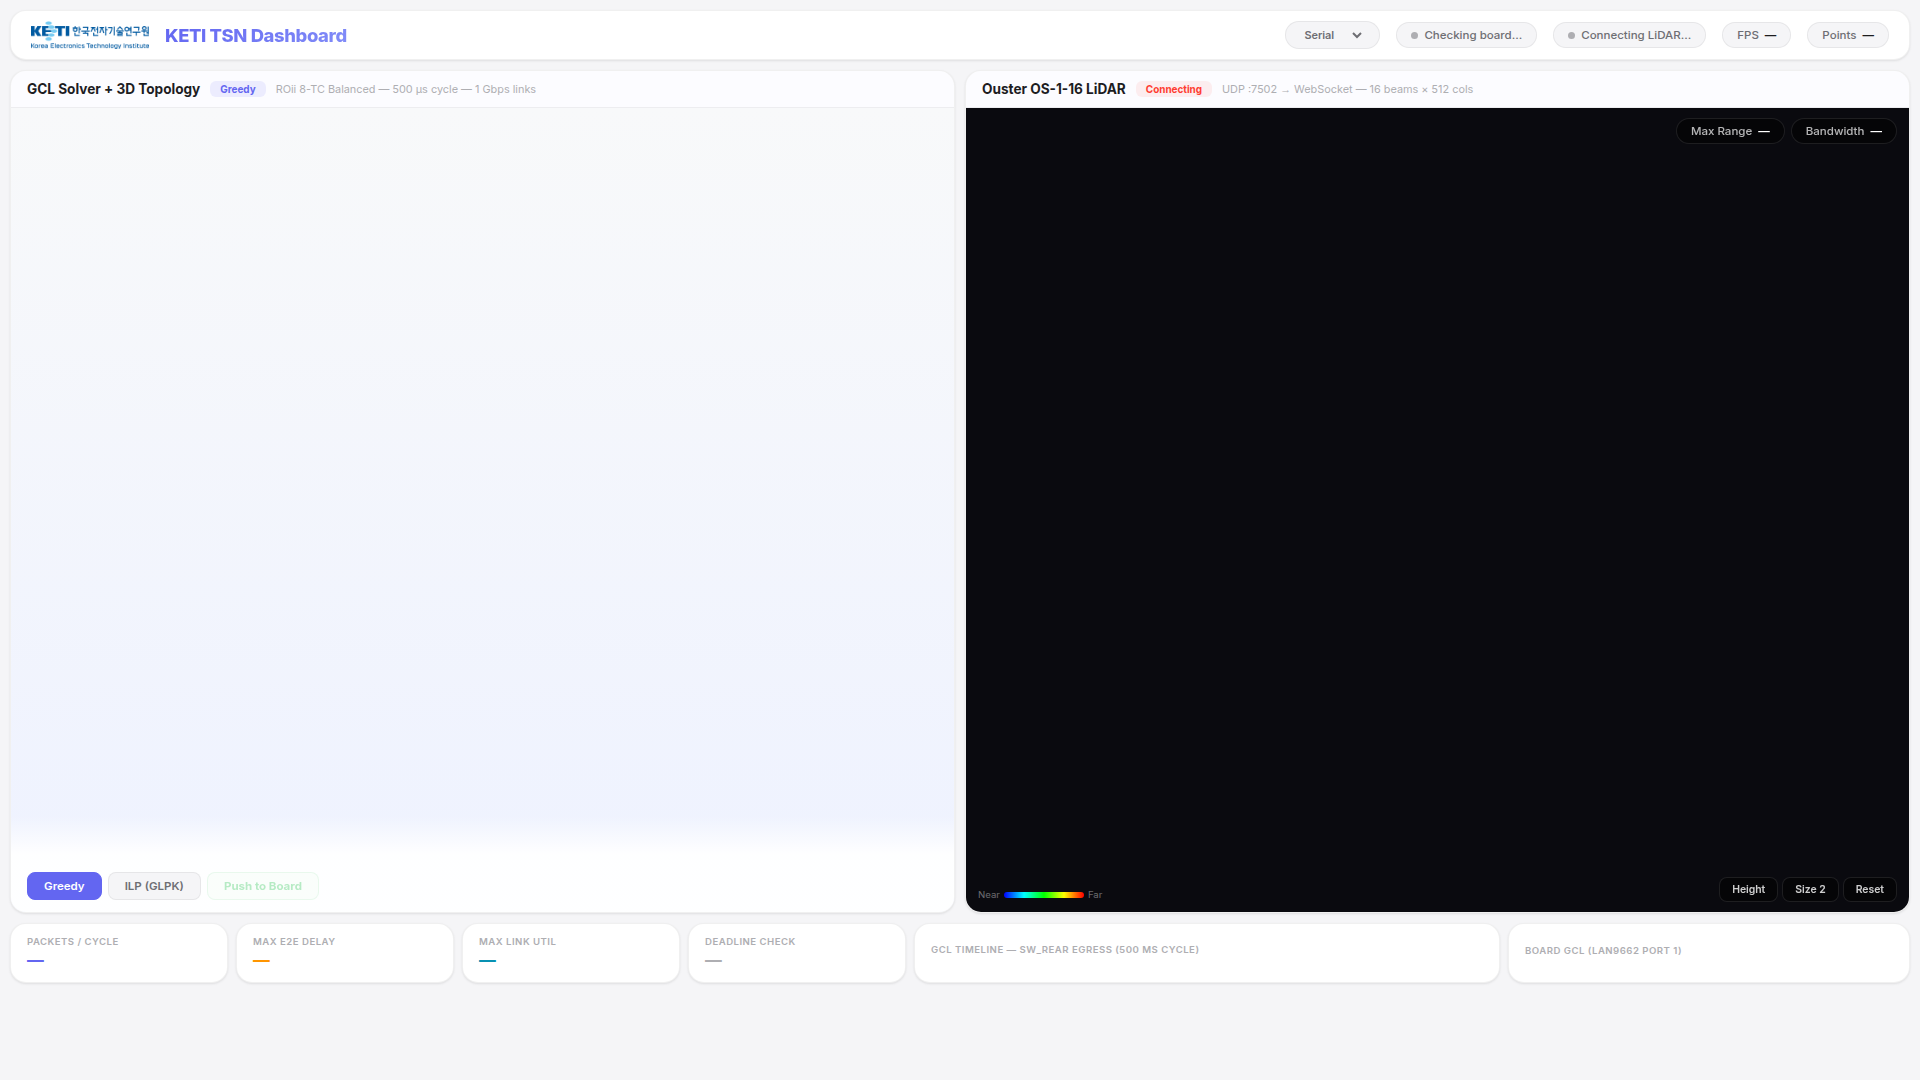
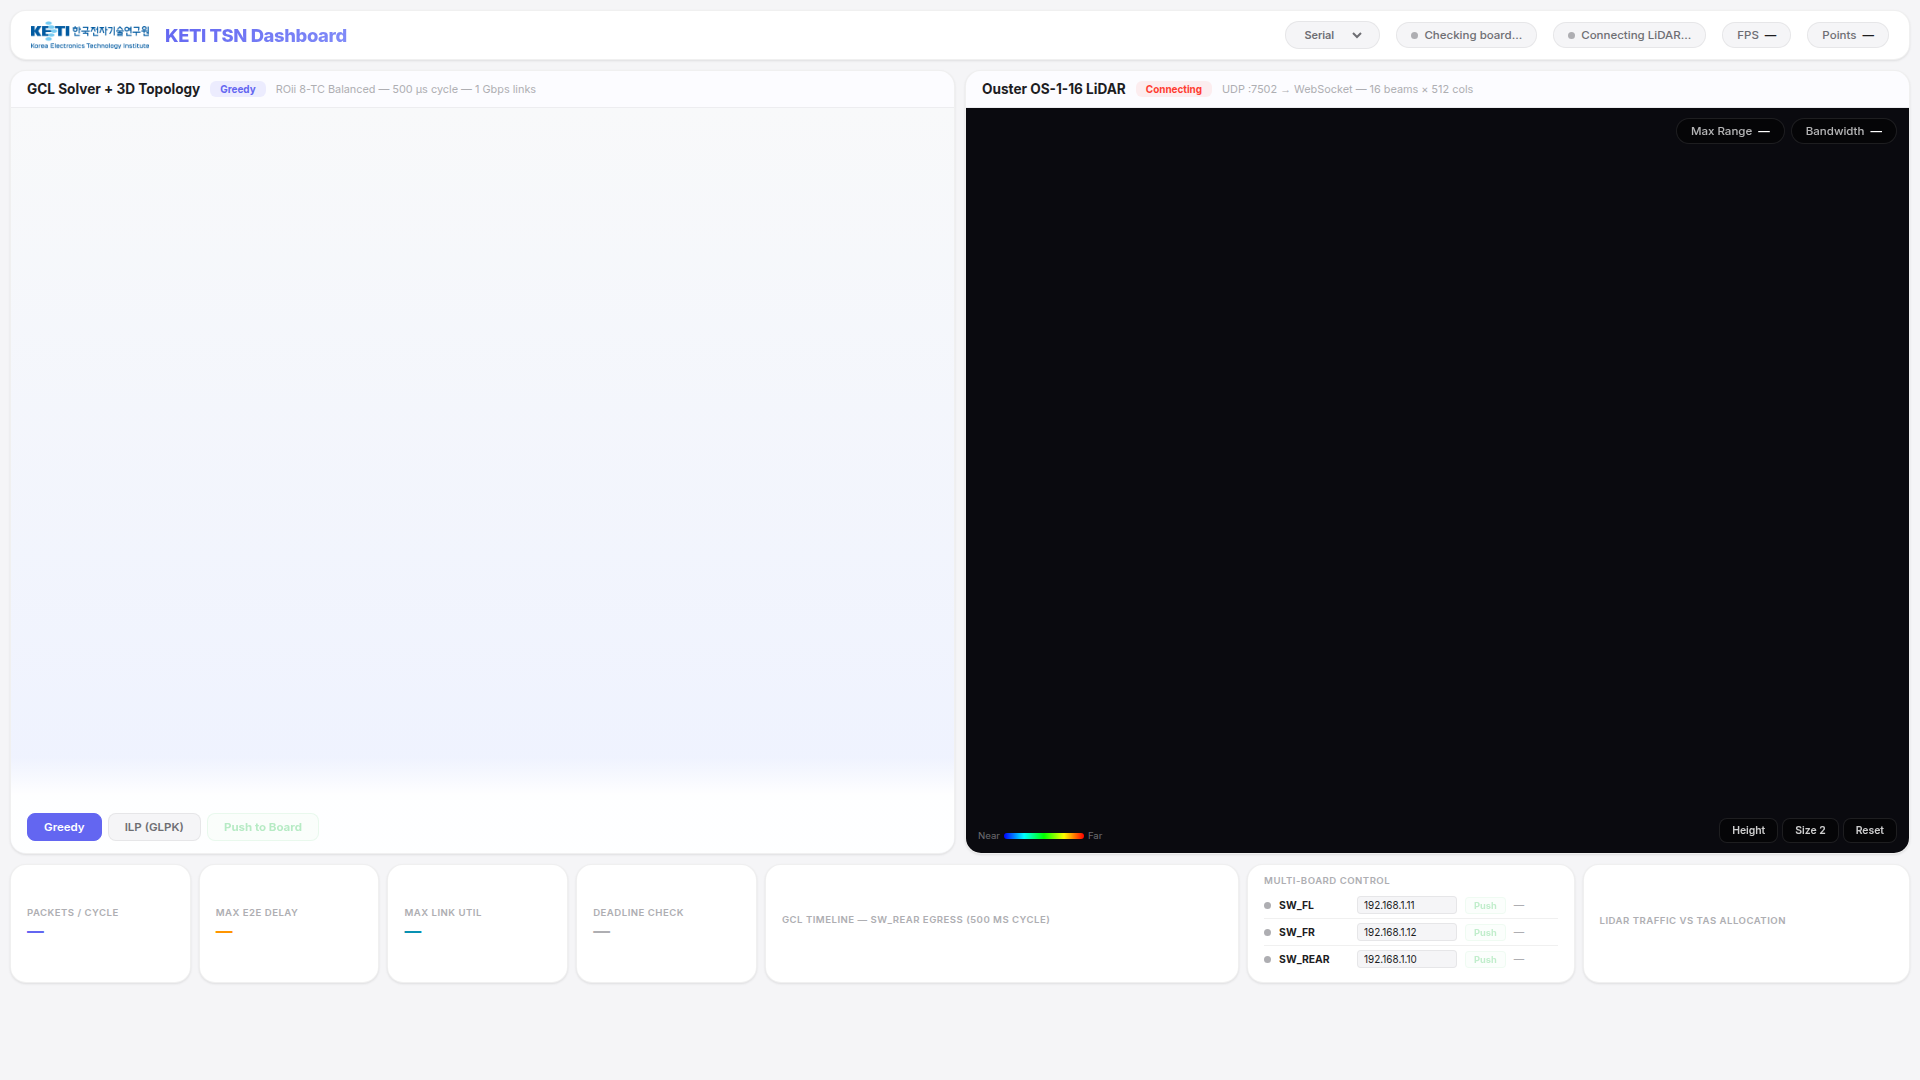
Add multi-board control + LiDAR TAS live stats to dashboard
- Multi-Board panel: per-switch (SW_FL/FR/REAR) IP input, status
  check via Ethernet transport, individual GCL push buttons
- LiDAR TAS panel: real-time traffic rate vs TAS time slot allocation,
  per-flow utilization bars (G32/Pandar/MRR-35), live Mbps overlay
- Ethernet init tested successfully on LAN9662 board:
  L3 VLAN + Static IP (192.168.1.10) + CoAP no-sec + flash saved

diff --git a/dashboard.html b/dashboard.html
@@ -267,6 +267,55 @@
     }
     .gate-bit-mini.open { background: rgba(52,199,89,.2); color: var(--green); }
     .gate-bit-mini.closed { background: rgba(0,0,0,.04); color: var(--text3); }
+
+    /* ── Multi-board panel ── */
+    .multiboard { flex: 2; padding: 10px 16px; }
+    .multiboard .bc-label { margin-bottom: 6px; }
+    .board-row {
+      display: flex; align-items: center; gap: 8px;
+      padding: 4px 0; border-bottom: 1px solid var(--border);
+      font-size: 0.65rem;
+    }
+    .board-row:last-child { border-bottom: none; }
+    .board-row .sw-name {
+      font-weight: 700; color: var(--text); min-width: 70px;
+    }
+    .board-row .sw-dot {
+      width: 7px; height: 7px; border-radius: 50%; flex-shrink: 0;
+    }
+    .board-row input {
+      background: var(--bg); border: 1px solid var(--border);
+      padding: 2px 6px; border-radius: 4px; font-size: 0.62rem;
+      font-family: inherit; width: 100px; outline: none;
+      color: var(--text);
+    }
+    .board-row input:focus { border-color: var(--accent); }
+    .board-row .btn-sm {
+      padding: 2px 8px; font-size: 0.58rem; border-radius: 4px;
+      background: rgba(52,199,89,.06); border: 1px solid rgba(52,199,89,.2);
+      color: var(--green); cursor: pointer; font-weight: 700;
+      font-family: inherit;
+    }
+    .board-row .btn-sm:disabled { opacity: .3; cursor: not-allowed; }
+    .board-row .btn-sm:hover:not(:disabled) { background: rgba(52,199,89,.12); }
+
+    /* ── LiDAR TAS live stats ── */
+    .lidar-tas { flex: 2; padding: 10px 16px; }
+    .lidar-tas .bc-label { margin-bottom: 6px; }
+    .tas-flow-row {
+      display: flex; align-items: center; gap: 6px;
+      padding: 2px 0; font-size: 0.62rem;
+    }
+    .tas-flow-dot {
+      width: 8px; height: 8px; border-radius: 2px; flex-shrink: 0;
+    }
+    .tas-flow-name { min-width: 60px; font-weight: 600; color: var(--text2); }
+    .tas-flow-bar {
+      flex: 1; height: 6px; background: var(--bg);
+      border-radius: 3px; overflow: hidden; border: 1px solid var(--border);
+    }
+    .tas-flow-fill { height: 100%; border-radius: 2px; transition: width .3s; }
+    .tas-flow-val { min-width: 50px; text-align: right; font-variant-numeric: tabular-nums; color: var(--text3); }
   </style>
 </head>
 <body>
@@ -379,9 +428,35 @@
         <div class="bc-label">GCL Timeline — SW_REAR Egress (500 µs cycle)</div>
         <div id="ganttMini"></div>
       </div>
-      <div class="bottom-card board-mini">
-        <div class="bc-label">Board GCL (LAN9662 Port 1)</div>
-        <div id="boardMini"></div>
+      <div class="bottom-card multiboard">
+        <div class="bc-label">Multi-Board Control</div>
+        <div id="multiBoard">
+          <div class="board-row" data-sw="SW_FL">
+            <div class="sw-dot dot-off" id="mbDot_FL"></div>
+            <span class="sw-name">SW_FL</span>
+            <input type="text" id="mbIp_FL" placeholder="192.168.1.11" value="192.168.1.11">
+            <button class="btn-sm" id="mbPush_FL" disabled>Push</button>
+            <span id="mbStatus_FL" style="color:var(--text3)">—</span>
+          </div>
+          <div class="board-row" data-sw="SW_FR">
+            <div class="sw-dot dot-off" id="mbDot_FR"></div>
+            <span class="sw-name">SW_FR</span>
+            <input type="text" id="mbIp_FR" placeholder="192.168.1.12" value="192.168.1.12">
+            <button class="btn-sm" id="mbPush_FR" disabled>Push</button>
+            <span id="mbStatus_FR" style="color:var(--text3)">—</span>
+          </div>
+          <div class="board-row" data-sw="SW_REAR">
+            <div class="sw-dot dot-off" id="mbDot_REAR"></div>
+            <span class="sw-name">SW_REAR</span>
+            <input type="text" id="mbIp_REAR" placeholder="192.168.1.10" value="192.168.1.10">
+            <button class="btn-sm" id="mbPush_REAR" disabled>Push</button>
+            <span id="mbStatus_REAR" style="color:var(--text3)">—</span>
+          </div>
+        </div>
+      </div>
+      <div class="bottom-card lidar-tas">
+        <div class="bc-label">LiDAR Traffic vs TAS Allocation</div>
+        <div id="lidarTas"></div>
       </div>
     </div>
   </div>
@@ -726,6 +801,8 @@
     };
     ws.onmessage = e => {
       if (typeof e.data === 'string') return;
+      lidarPktCounter++;
+      lidarByteCounter += e.data.byteLength;
       updateLidarPoints(new Float32Array(e.data));
     };
     ws.onclose = () => {
@@ -1001,6 +1078,165 @@
     btn.textContent = 'Push to Board';
     updatePushBtn();
   });
+
+  /* ═══════════════════════════════════════════════
+     MULTI-BOARD
+     ═══════════════════════════════════════════════ */
+  const MB_SWITCHES = [
+    { key: 'FL', swId: 'SW_FL', label: 'Front-Left ZC' },
+    { key: 'FR', swId: 'SW_FR', label: 'Front-Right ZC' },
+    { key: 'REAR', swId: 'SW_REAR', label: 'Rear Gateway' }
+  ];
+
+  const mbState = { FL: false, FR: false, REAR: false };
+
+  async function checkMultiBoard() {
+    for (const mb of MB_SWITCHES) {
+      const ip = document.getElementById(`mbIp_${mb.key}`).value.trim();
+      if (!ip) continue;
+      try {
+        const res = await fetch(`/api/board/status?transport=eth&host=${encodeURIComponent(ip)}`);
+        const data = await res.json();
+        mbState[mb.key] = data.connected;
+        document.getElementById(`mbDot_${mb.key}`).className = 'sw-dot ' + (data.connected ? 'dot-green' : 'dot-off');
+        document.getElementById(`mbStatus_${mb.key}`).textContent = data.connected ? 'Online' : 'Offline';
+        document.getElementById(`mbStatus_${mb.key}`).style.color = data.connected ? 'var(--green)' : 'var(--text3)';
+        document.getElementById(`mbPush_${mb.key}`).disabled = !data.connected || !currentResult;
+      } catch {
+        mbState[mb.key] = false;
+        document.getElementById(`mbDot_${mb.key}`).className = 'sw-dot dot-off';
+      }
+    }
+  }
+
+  // Per-switch push
+  for (const mb of MB_SWITCHES) {
+    document.getElementById(`mbPush_${mb.key}`).addEventListener('click', async () => {
+      if (!currentResult?.boardConfigs?.[mb.swId]) return;
+      const ip = document.getElementById(`mbIp_${mb.key}`).value.trim();
+      const btn = document.getElementById(`mbPush_${mb.key}`);
+      const status = document.getElementById(`mbStatus_${mb.key}`);
+      btn.disabled = true; btn.textContent = '...';
+
+      // Build port map for this switch
+      const swCfg = currentResult.boardConfigs[mb.swId];
+      const portLinks = Object.keys(swCfg.ports);
+      const portMap = {};
+      portLinks.forEach((linkId, i) => { portMap[linkId] = String(i + 1); });
+
+      try {
+        const res = await fetch('/api/gcl/push', {
+          method: 'POST',
+          headers: { 'Content-Type': 'application/json' },
+          body: JSON.stringify({
+            boardConfigs: { [mb.swId]: swCfg },
+            portMap,
+            transport: 'eth',
+            host: ip
+          })
+        });
+        const data = await res.json();
+        if (data.error) {
+          status.textContent = 'Err'; status.style.color = 'var(--red)';
+        } else {
+          const ok = data.results.filter(r => r.success).length;
+          status.textContent = `${ok}/${data.results.length} OK`;
+          status.style.color = ok === data.results.length ? 'var(--green)' : 'var(--orange)';
+        }
+      } catch (e) {
+        status.textContent = 'Fail'; status.style.color = 'var(--red)';
+      }
+      btn.textContent = 'Push';
+      btn.disabled = !mbState[mb.key];
+    });
+  }
+
+  // Check multi-board every 10s
+  setInterval(checkMultiBoard, 10000);
+  setTimeout(checkMultiBoard, 2000);
+
+  /* ═══════════════════════════════════════════════
+     LIDAR TAS LIVE STATS
+     ═══════════════════════════════════════════════ */
+  // Track LiDAR traffic rate and map to TAS time slots
+  let lidarPktRate = 0; // packets/sec
+  let lidarByteRate = 0; // bytes/sec
+  let lidarPktCounter = 0;
+  let lidarByteCounter = 0;
+  let lastLidarStatsTime = performance.now();
+
+  // Hook into LiDAR frame updates
+  const origUpdateLidar = updateLidarPoints;
+  const wrappedUpdateLidar = function(data) {
+    lidarPktCounter++;
+    lidarByteCounter += data.byteLength;
+    origUpdateLidar(data);
+  };
+  // We can't easily wrap the function reference, so we track in ws.onmessage later
+
+  function updateLidarTasPanel() {
+    const now = performance.now();
+    const dt = (now - lastLidarStatsTime) / 1000;
+    if (dt >= 1) {
+      lidarPktRate = lidarPktCounter / dt;
+      lidarByteRate = lidarByteCounter / dt;
+      lidarPktCounter = 0;
+      lidarByteCounter = 0;
+      lastLidarStatsTime = now;
+    }
+
+    const container = document.getElementById('lidarTas');
+    if (!currentResult) { container.innerHTML = '<div style="font-size:0.62rem;color:var(--text3)">Solve first</div>'; return; }
+
+    // Map solver flows to their TAS allocation
+    const flows = [
+      { id: 'f_lidar_fc', name: 'G32-FC', color: '#F28E2B', tc: 7, payload: 1248, period: 500 },
+      { id: 'f_lidar_fl', name: 'PND-FL', color: '#E9C46A', tc: 6, payload: 812, period: 500 },
+      { id: 'f_lidar_fr', name: 'PND-FR', color: '#E76F51', tc: 5, payload: 812, period: 500 },
+      { id: 'f_lidar_r', name: 'G32-R', color: '#D4A574', tc: 4, payload: 1248, period: 1000 },
+      { id: 'f_radar_f', name: 'MRR-F', color: '#457B9D', tc: 3, payload: 128, period: 500 },
+    ];
+
+    // Calculate utilization per flow on bottleneck link (SW_REAR→ACU_IT)
+    const cycleUs = 500;
+    const linkRate = 1000; // Mbps
+    let html = '';
+    for (const f of flows) {
+      const txUs = (f.payload + 38) * 8 / linkRate; // transmission time in µs
+      const pktsPerCycle = cycleUs / f.period;
+      const util = (txUs * pktsPerCycle) / cycleUs * 100;
+
+      // Live LiDAR bandwidth for LiDAR flows
+      let liveLabel = '';
+      if (f.id.startsWith('f_lidar') && lidarByteRate > 0) {
+        const liveMbps = lidarByteRate * 8 / 1e6 / 4; // divide by 4 flows roughly
+        liveLabel = `${liveMbps.toFixed(1)} Mbps`;
+      }
+
+      html += `<div class="tas-flow-row">
+        <div class="tas-flow-dot" style="background:${f.color}"></div>
+        <span class="tas-flow-name">${f.name}</span>
+        <div class="tas-flow-bar">
+          <div class="tas-flow-fill" style="width:${Math.min(util * 5, 100)}%;background:${f.color};opacity:0.7"></div>
+        </div>
+        <span class="tas-flow-val">${txUs.toFixed(1)}µs TC${f.tc}</span>
+      </div>`;
+    }
+
+    // Add live LiDAR summary
+    if (lidarByteRate > 0) {
+      const totalMbps = lidarByteRate * 8 / 1e6;
+      const fps = lidarPktRate;
+      html += `<div style="margin-top:4px;padding-top:4px;border-top:1px solid var(--border);font-size:0.6rem;color:var(--text2);">
+        Live: <strong>${totalMbps.toFixed(1)} Mbps</strong> @ ${fps.toFixed(0)} fps
+        &mdash; TAS slot: <strong>TC7 ${(1248+38)*8/1000}µs</strong> / 500µs cycle
+      </div>`;
+    }
+
+    container.innerHTML = html;
+  }
+
+  setInterval(updateLidarTasPanel, 1000);
 
   /* ═══════════════════════════════════════════════
      BOOT
